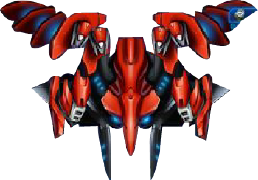
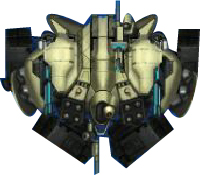
update

diff --git a/src/main/java/org/example/utils/GameUtils.java b/src/main/java/org/example/utils/GameUtils.java
@@ -20,12 +20,12 @@ public class GameUtils {
     public static Image bossImg002 = new ImageIcon("imgs\\boss002.png").getImage();
     //Boss003图片
     public static Image bossImg003 = new ImageIcon("imgs\\boss003.png").getImage();
-    //Boss003图片
-    public static Image bossImg004 = new ImageIcon("imgs\\boss003.png").getImage();
-    //Boss003图片
-    public static Image bossImg005 = new ImageIcon("imgs\\boss003.png").getImage();
-    //Boss003图片
-    public static Image bossImg006 = new ImageIcon("imgs\\boss003.png").getImage();
+    //Boss004图片
+    public static Image bossImg004 = new ImageIcon("imgs\\boss004.png").getImage();
+    //Boss005图片
+    public static Image bossImg005 = new ImageIcon("imgs\\boss005.png").getImage();
+    //Boss006图片
+    public static Image bossImg006 = new ImageIcon("imgs\\boss006.png").getImage();
     //爆炸图片GIF
     public static Image epImg = new ImageIcon("imgs\\explode.gif").getImage();
     //我方战斗机图片
@@ -59,8 +59,15 @@ public class GameUtils {
     //Boss02子弹集合
     public static List<Bullet02Obj> enBullet0201ObjList = new ArrayList<>();
     public static List<Bullet02Obj> enBullet0202ObjList = new ArrayList<>();
-    //Boss01子弹集合
+    //Boss03子弹集合
     public static List<Bullet03Obj> enBullet03ObjList = new ArrayList<>();
+    //Boss04子弹集合
+    public static List<Bullet03Obj> enBullet04ObjList = new ArrayList<>();
+    //Boss05子弹集合
+    public static List<Bullet03Obj> enBullet05ObjList = new ArrayList<>();
+    //Boss06子弹集合
+    public static List<Bullet03Obj> enBullet06ObjList = new ArrayList<>();
+
     //敌方子弹集合
     public static List<EnShellObj> enShellObjList = new ArrayList<>();
     //敌机爆炸集合

diff --git a/src/main/java/org/example/obj/Bullet04Obj.java b/src/main/java/org/example/obj/Bullet04Obj.java
@@ -1,0 +1,29 @@
+package org.example.obj;
+import org.example.AirWars;
+import org.example.utils.GameUtils;
+import  java.awt.*;
+
+public class Bullet04Obj extends GameObj{
+    public Bullet04Obj(Image img, int x, int y, int width, int height, double speed, AirWars frame) {
+        super(img, x, y, width, height, speed, frame);
+    }
+
+    @Override
+    public void paintSelf(Graphics gImage) {
+        super.paintSelf(gImage);
+        y += speed;
+        //子弹撞击我方飞机
+        if (this.getRec().intersects(this.frame.planeObj.getRec()))
+            PlaneObj.urHP = PlaneObj.urHP - 8;
+        if ((y > 645) || (Boss04Obj.healthPoint04 == 0)){
+            this.x = -1000;
+            this.y = 1000;
+            GameUtils.removeList.add(this);
+        }
+    }
+
+    @Override
+    public Rectangle getRec() {
+        return super.getRec();
+    }
+}

diff --git a/src/main/java/org/example/obj/Bullet05Obj.java b/src/main/java/org/example/obj/Bullet05Obj.java
@@ -1,0 +1,29 @@
+package org.example.obj;
+import org.example.AirWars;
+import org.example.utils.GameUtils;
+import  java.awt.*;
+
+public class Bullet05Obj extends GameObj{
+    public Bullet05Obj(Image img, int x, int y, int width, int height, double speed, AirWars frame) {
+        super(img, x, y, width, height, speed, frame);
+    }
+
+    @Override
+    public void paintSelf(Graphics gImage) {
+        super.paintSelf(gImage);
+        y += speed;
+        //子弹撞击我方飞机
+        if (this.getRec().intersects(this.frame.planeObj.getRec()))
+            PlaneObj.urHP = PlaneObj.urHP - 8;
+        if ((y > 645) || (Boss05Obj.healthPoint05 == 0)){
+            this.x = -1000;
+            this.y = 1000;
+            GameUtils.removeList.add(this);
+        }
+    }
+
+    @Override
+    public Rectangle getRec() {
+        return super.getRec();
+    }
+}

diff --git a/src/main/java/org/example/obj/Bullet06Obj.java b/src/main/java/org/example/obj/Bullet06Obj.java
@@ -1,0 +1,29 @@
+package org.example.obj;
+import org.example.AirWars;
+import org.example.utils.GameUtils;
+import  java.awt.*;
+
+public class Bullet06Obj extends GameObj{
+    public Bullet06Obj(Image img, int x, int y, int width, int height, double speed, AirWars frame) {
+        super(img, x, y, width, height, speed, frame);
+    }
+
+    @Override
+    public void paintSelf(Graphics gImage) {
+        super.paintSelf(gImage);
+        y += speed;
+        //子弹撞击我方飞机
+        if (this.getRec().intersects(this.frame.planeObj.getRec()))
+            PlaneObj.urHP = PlaneObj.urHP - 8;
+        if ((y > 645) || (Boss06Obj.healthPoint06 == 0)){
+            this.x = -1000;
+            this.y = 1000;
+            GameUtils.removeList.add(this);
+        }
+    }
+
+    @Override
+    public Rectangle getRec() {
+        return super.getRec();
+    }
+}
